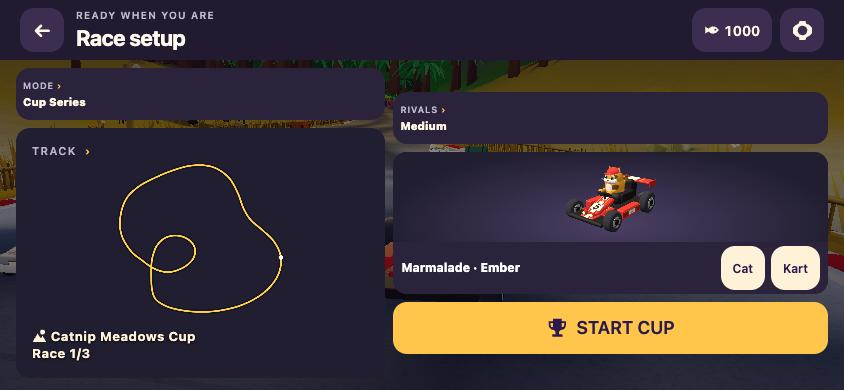
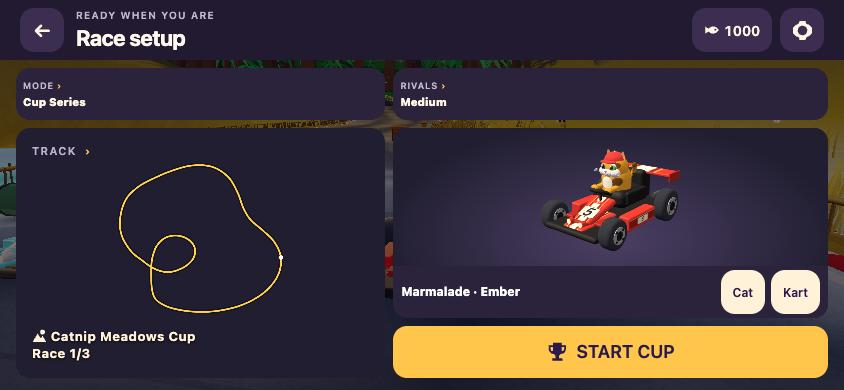
Stretch landscape racer preview to align setup columns

diff --git a/menu-refresh.css b/menu-refresh.css
@@ -2137,3 +2137,22 @@ html:not(.keyboard-navigation) #stage button:focus-visible:not(.pad-focus) {
 #stage.menu-portrait #flow-startline .start-scroll {
   flex: 0 1 auto;
 }
+
+/* Let the racer absorb landscape space between the choices and Start. */
+#stage:not(.menu-portrait) #flow-startline .start-side {
+  justify-content: flex-start;
+}
+#stage:not(.menu-portrait) #flow-startline .start-scroll {
+  flex: 1 1 0;
+}
+#stage:not(.menu-portrait) #flow-startline .setup-racer-preview {
+  flex: 1 0 auto;
+}
+#stage:not(.menu-portrait) #flow-startline #racer-portrait {
+  flex: 1 0 90px;
+  height: 90px;
+  min-height: 90px;
+}
+#stage:not(.menu-portrait) #flow-startline .setup-racer-preview > :not(canvas) {
+  flex-shrink: 0;
+}
